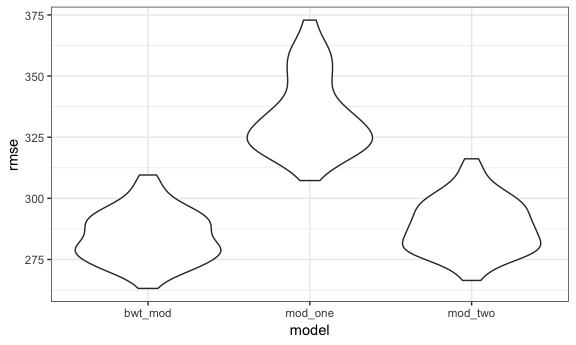
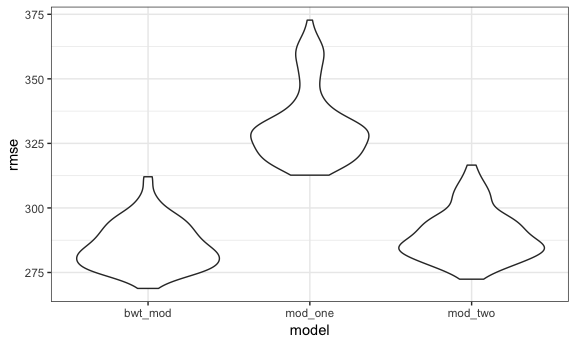
final model evaluation based on cross-validation

diff --git a/p8105_hw6_eas2297.md b/p8105_hw6_eas2297.md
@@ -247,3 +247,17 @@ cv_df %>%
 ```
 
 <img src="p8105_hw6_eas2297_files/figure-gfm/unnamed-chunk-14-1.png" width="90%" />
+
+From the plot showing the distribution of RMSE values for each model, we
+see that mod\_one (corresponding to `model_one`, the simplest model that
+only contains main effects of gestational age and length at birth on
+birthweight) has the highest RMSE distribution, and is therefore the
+most inappropriate of the three models. The other models have similar
+RMSE distributions, but my model (bwt\_mod corresponding to `bwt_model`)
+has more of its bulk slightly lower in the plot, making it a slightly
+better choice as a regression model.
+
+Therefore, I would ultimately choose the model that incorporates effects
+of gestational age, length at birth, mother’s pre-pregnancy weight,
+average number of cigarettes smoked per day during pregnancy, and the
+interaction between gestational age and length at birth on birthweight.
